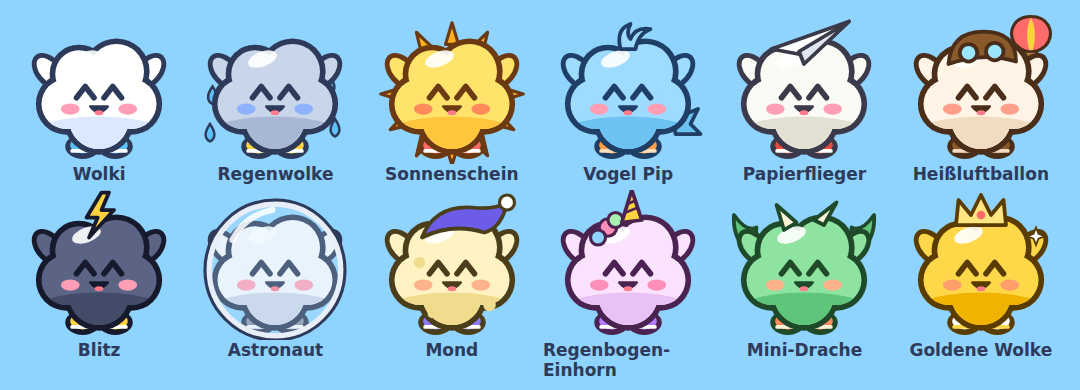
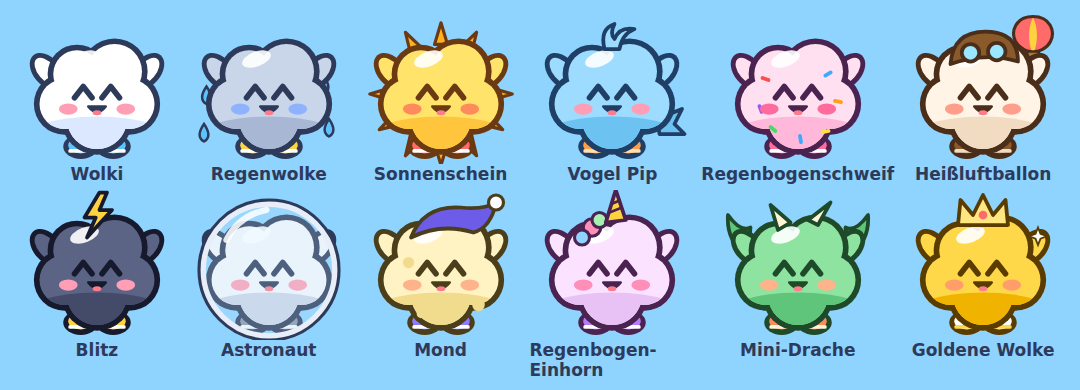
Sky Tower v0.5.0: Regenbogen- und Sternschnuppen-Schweif
- Papierflieger ersetzt durch Regenbogenschweif: rosa Wolki mit Streuseln
  und welligem 6-Farben-Regenbogen hinter sich (Nyan-Stil)
- Mond zieht einen Sternschnuppen-Schweif mit Funkeln hinter sich her
- Schweife im Spiel, im Menü (Wolki fliegt dann) und als Vorschau im Shop
- Alte Spielstände: Papierflieger wird automatisch zum Regenbogenschweif

Claude-Session: https://claude.ai/code/session_01WNEuBMU6fUHJXnr1bAaD1H

diff --git a/skytower/src/systems/trail.js b/skytower/src/systems/trail.js
@@ -1,0 +1,123 @@
+// Schweife hinter Wolki: Regenbogen (6 Farbbänder, leicht wellig) und
+// Sternschnuppe (leuchtende Spur mit funkelnden Sternchen).
+import { ZOOM } from '../view.js';
+
+export const RAINBOW = [0xff4d4d, 0xff9f1a, 0xffe23d, 0x4cd964, 0x3fa9ff, 0x8e5cff];
+const BAND = 7; // Breite eines Farbbands
+const LIFE = 0.42; // so lange (s) bleibt ein Punkt des Schweifs sichtbar
+
+export class Trail {
+  /**
+   * @param kind 'rainbow' | 'stars' | undefined (kein Schweif)
+   * @param drift Punkte wandern mit dieser Geschwindigkeit (px/s) nach links,
+   *              z. B. im Menü, damit der Schweif "fliegt", obwohl Wolki auf der Stelle hüpft
+   * @param flat  Farbbänder immer waagerecht übereinander (Nyan-Look im Menü)
+   */
+  constructor(scene, kind, { depth = 6, drift = 0, flat = false, life = LIFE } = {}) {
+    this.kind = kind;
+    this.life = life;
+    this.drift = drift;
+    this.flat = flat;
+    this.pts = [];
+    this.time = 0;
+    if (!kind) return;
+    this.g = scene.add.graphics().setDepth(depth);
+    if (kind === 'stars') {
+      this.sparks = scene.add.particles(0, 0, 'spark', {
+        speed: { min: 10, max: 70 },
+        lifespan: 750,
+        scale: { start: 0.95 / ZOOM, end: 0 },
+        alpha: { start: 1, end: 0 },
+        rotate: { min: 0, max: 360 },
+        tint: [0xffffff, 0xfff3a0, 0xffd23f],
+        emitting: false,
+      }).setDepth(depth);
+    }
+  }
+
+  /** Jedes Frame mit der aktuellen Position aufrufen. */
+  update(x, y, dt) {
+    if (!this.kind) return;
+    this.time += dt;
+    if (this.drift) for (const p of this.pts) p.x += this.drift * dt;
+    const last = this.pts[this.pts.length - 1];
+    if (!last || Math.abs(last.x - x) + Math.abs(last.y - y) > 2) this.pts.push({ x, y, t: this.time });
+    while (this.pts.length && this.time - this.pts[0].t > this.life) this.pts.shift();
+    if (this.kind === 'stars' && this.pts.length > 1 && Math.random() < 0.7) {
+      this.sparks.emitParticleAt(x + (Math.random() - 0.5) * 30, y + (Math.random() - 0.5) * 30, 1);
+    }
+    this.draw();
+  }
+
+  clear() {
+    this.pts = [];
+    this.g?.clear();
+  }
+
+  draw() {
+    const g = this.g;
+    g.clear();
+    const pts = this.pts;
+    if (pts.length < 2) return;
+    // Senkrechte zur Bewegungsrichtung je Punkt (für die Farbbänder)
+    let nx = 0;
+    let ny = 1;
+    const normals = pts.map((p, i) => {
+      if (this.flat) return [0, 1];
+      const a = pts[Math.max(0, i - 1)];
+      const b = pts[Math.min(pts.length - 1, i + 1)];
+      const dx = b.x - a.x;
+      const dy = b.y - a.y;
+      const len = Math.hypot(dx, dy);
+      if (len > 0.5) { nx = -dy / len; ny = dx / len; }
+      return [nx, ny];
+    });
+    // In drei Stücken zeichnen: je älter, desto durchsichtiger
+    const pieces = [[0, 0.3], [Math.floor(pts.length / 3), 0.6], [Math.floor((pts.length * 2) / 3), 1]];
+    pieces.forEach(([from, alpha], k) => {
+      const to = k < 2 ? pieces[k + 1][0] + 1 : pts.length;
+      if (to - from < 2) return;
+      if (this.kind === 'rainbow') {
+        RAINBOW.forEach((color, b) => {
+          const off = (b - 2.5) * BAND;
+          const line = [];
+          for (let i = from; i < to; i++) {
+            // Welle aus der Position statt aus dem Punkt-Index: gleich bei jeder Bildrate
+            const wave = Math.sin(this.time * 14 - (pts[i].x + pts[i].y) * 0.06) * 3;
+            line.push({ x: pts[i].x + normals[i][0] * (off + wave), y: pts[i].y + normals[i][1] * (off + wave) });
+          }
+          g.lineStyle(BAND + 1, color, alpha).strokePoints(line);
+        });
+      } else {
+        const line = pts.slice(from, to);
+        g.lineStyle(22, 0xfff3a0, alpha * 0.25).strokePoints(line);
+        g.lineStyle(9, 0xffffff, alpha * 0.7).strokePoints(line);
+      }
+    });
+  }
+
+  destroy() {
+    this.g?.destroy();
+    this.sparks?.destroy();
+  }
+}
+
+/** Kleine, feste Vorschau eines Schweifs (für den Shop), endet bei (x, y). */
+export function drawTrailPreview(scene, kind, x, y, len, depth = 6) {
+  const g = scene.add.graphics().setDepth(depth);
+  if (kind === 'rainbow') {
+    RAINBOW.forEach((color, b) => {
+      const off = (b - 2.5) * 5;
+      const line = [];
+      for (let i = 0; i <= 8; i++) line.push({ x: x - (len * i) / 8, y: y + off + (i % 2 ? 3 : -3) });
+      g.lineStyle(6, color, 1).strokePoints(line);
+    });
+  } else if (kind === 'stars') {
+    g.lineStyle(12, 0xfff3a0, 0.35).lineBetween(x - len, y + 4, x, y);
+    g.lineStyle(5, 0xffffff, 0.8).lineBetween(x - len, y + 4, x, y);
+    [[0.3, -10], [0.6, 12], [0.85, -4]].forEach(([f, dy]) => {
+      scene.add.image(x - len * f, y + dy, 'spark').setScale(0.9 / ZOOM).setDepth(depth).setTint(0xffe680);
+    });
+  }
+  return g;
+}

diff --git a/skytower/src/scenes/Menu.js b/skytower/src/scenes/Menu.js
@@ -6,6 +6,8 @@ import { save } from '../services/storage.js';
 import { unlockAudio, setSoundEnabled, sfx } from '../services/audio.js';
 import { music } from '../services/music.js';
 import { skinKey } from '../systems/skinTextures.js';
+import { Trail } from '../systems/trail.js';
+import { skinById } from '../systems/progress.js';
 
 export class MenuScene extends Phaser.Scene {
   constructor() {
@@ -29,19 +31,21 @@ export class MenuScene extends Phaser.Scene {
     this.tweens.add({ targets: title, angle: { from: -2, to: 2 }, duration: 1600, yoyo: true, repeat: -1, ease: 'Sine.inOut' });
     txt(this, W / 2, VIEW_H * 0.17 + 92, 'Hüpf in den Himmel!', 38, { color: '#fff6c2', strokeThickness: 7 });
 
-    // Wolki hüpft auf einer Wolke
+    // Wolki hüpft auf einer Wolke – oder fliegt mit ihrem Schweif (Nyan-Stil)
     const baseY = VIEW_H * 0.52;
-    const pg = this.add.graphics({ x: W / 2 - 110, y: baseY }).setDepth(3);
-    drawPlatform(pg, 'cloud', 220);
-    const wolki = this.add.image(W / 2, baseY, skinKey(s.selectedSkin, 'happy')).setOrigin(0.5, 0.96).setScale(1.5 / ZOOM).setDepth(4);
-    this.tweens.add({
-      targets: wolki,
-      y: baseY - 190,
-      duration: 480,
-      ease: 'Quad.out',
-      yoyo: true,
-      repeat: -1,
-    });
+    const trailKind = skinById(s.selectedSkin).trail;
+    this.trail = new Trail(this, trailKind, { depth: 3.5, drift: -360, flat: true, life: 0.6 });
+    const wolki = this.add.image(W / 2, baseY, skinKey(s.selectedSkin, 'happy'))
+      .setOrigin(0.5, 0.96).setScale(1.5 / ZOOM).setDepth(4);
+    this.wolki = wolki;
+    if (trailKind) {
+      wolki.setPosition(W / 2 + 60, baseY - 90);
+      this.tweens.add({ targets: wolki, y: baseY - 118, duration: 420, ease: 'Sine.inOut', yoyo: true, repeat: -1 });
+    } else {
+      const pg = this.add.graphics({ x: W / 2 - 110, y: baseY }).setDepth(3);
+      drawPlatform(pg, 'cloud', 220);
+      this.tweens.add({ targets: wolki, y: baseY - 190, duration: 480, ease: 'Quad.out', yoyo: true, repeat: -1 });
+    }
 
     const stats = [
       `Rekord: ${s.highscore.toLocaleString('de-DE')}`,
@@ -71,14 +75,16 @@ export class MenuScene extends Phaser.Scene {
       sfx.click();
     }, { w: 260, h: 78, size: 34, fill: 0xbfe6ff });
 
-    txt(this, W / 2, VIEW_H - 70, 'Prototyp v0.4 · Grafiken sind Platzhalter', 24, { strokeThickness: 5, color: '#e8f4ff' });
+    txt(this, W / 2, VIEW_H - 70, 'Prototyp v0.5 · Grafiken sind Platzhalter', 24, { strokeThickness: 5, color: '#e8f4ff' });
   }
 
   soundLabel() {
     return save.get().settings.sound ? 'Ton: an' : 'Ton: aus';
   }
 
-  update() {
+  update(_t, deltaMs) {
     this.sky.update(0, 0);
+    // Schweif "fliegt" nach links, während Wolki auf der Stelle schwebt
+    this.trail.update(this.wolki.x - 40, this.wolki.y - 64, Math.min(deltaMs / 1000, 0.1));
   }
 }

diff --git a/skytower/src/art.js b/skytower/src/art.js
@@ -27,10 +27,12 @@ export const SKINS = {
     back: (o) => `<path d="M96 84 L116 76 L110 88 L118 96 L98 96Z" fill="#6cc3f2" stroke="${o}" stroke-width="3" stroke-linejoin="round"/>`,
     front: (o) => `<path d="M54 28 Q50 12 62 8 Q58 16 62 20 Q66 10 78 12 Q68 16 66 28Z" fill="#9ddcff" stroke="${o}" stroke-width="3" stroke-linejoin="round"/>`,
   },
-  papier: {
-    body: '#fbfbf5', shade: '#e3e1d3', outline: '#3a3a4a', cheek: '#ff9eb5', shoe: '#e74c3c', sole: '#ffffff',
-    front: (o) => `<path d="M34 28 L96 6 L66 34 Z" fill="#ffffff" stroke="${o}" stroke-width="3" stroke-linejoin="round"/>` +
-      `<path d="M96 6 L56 30 L60 40 Z" fill="#dfe6f0" stroke="${o}" stroke-width="3" stroke-linejoin="round"/>`,
+  rainbow: {
+    // rosa "Törtchen" mit bunten Streuseln; der Regenbogen-Schweif kommt aus src/systems/trail.js
+    body: '#ffe0f0', shade: '#ffb8d9', outline: '#4a2350', cheek: '#ff6b9d', shoe: '#ff6b9d', sole: '#ffffff',
+    belly: () => [[34, 52, '#ff4d4d', 20], [84, 48, '#3fa9ff', -30], [40, 92, '#4cd964', 40], [82, 94, '#ffe23d', -10],
+      [30, 76, '#8e5cff', 70], [92, 70, '#ff9f1a', 10], [62, 100, '#3fa9ff', 80]]
+      .map(([x, y, c, r]) => `<rect x="${x - 4}" y="${y - 1.5}" width="8" height="3" rx="1.5" fill="${c}" transform="rotate(${r} ${x} ${y})"/>`).join(''),
   },
   ballon: {
     body: '#fff4e6', shade: '#f1dcc2', outline: '#4a2e1a', cheek: '#ff9e8a', shoe: '#8b5a2b', sole: '#f1dcc2',

diff --git a/skytower/src/systems/progress.js b/skytower/src/systems/progress.js
@@ -2,18 +2,19 @@
 //
 // Jeder Skin ist entweder von Anfang an da, für Münzen kaufbar, durch einen
 // Erfolg freischaltbar oder Premium (In-App-Kauf ab Phase 6). Die Goldene
-// Wolke gibt es auch über 1.000.000 gesammelte Punkte.
+// Wolke gibt es auch über 1.000.000 gesammelte Punkte. `trail` = Schweif hinter
+// Wolki (siehe src/systems/trail.js).
 
 export const SKIN_LIST = [
   { id: 'wolki', name: 'Wolki' },
   { id: 'regen', name: 'Regenwolke', price: 500 },
   { id: 'sonne', name: 'Sonnenschein', price: 1000 },
   { id: 'pip', name: 'Vogel Pip', price: 1500 },
-  { id: 'papier', name: 'Papierflieger', price: 2500 },
+  { id: 'rainbow', name: 'Regenbogenschweif', short: 'Regenbogen', price: 2500, trail: 'rainbow' },
   { id: 'ballon', name: 'Heißluftballon', goal: { type: 'bestFloor', value: 200 } },
   { id: 'blitz', name: 'Blitz', goal: { type: 'bestCombo', value: 50 } },
   { id: 'astro', name: 'Astronaut', goal: { type: 'bestFloor', value: 500 } },
-  { id: 'mond', name: 'Mond', goal: { type: 'runs', value: 100 } },
+  { id: 'mond', name: 'Mond', goal: { type: 'runs', value: 100 }, trail: 'stars' },
   { id: 'einhorn', name: 'Regenbogen-Einhorn', short: 'Einhorn', premium: true },
   { id: 'drache', name: 'Mini-Drache', premium: true },
   { id: 'gold', name: 'Goldene Wolke', premium: true, goal: { type: 'totalScore', value: 1_000_000 } },

diff --git a/skytower/src/scenes/Shop.js b/skytower/src/scenes/Shop.js
@@ -7,6 +7,7 @@ import { ensureSkin, skinKey } from '../systems/skinTextures.js';
 import {
   SKIN_LIST, GOAL_TEXT, skinById, skinState, buySkin, selectSkin, goalProgress,
 } from '../systems/progress.js';
+import { drawTrailPreview } from '../systems/trail.js';
 
 const INK = '#2d3a5a';
 const COLS = 3;
@@ -82,6 +83,9 @@ export class ShopScene extends Phaser.Scene {
       const img = this.add.image(x + cw / 2, y + (ch - 56) / 2 + 6, skinKey(skin.id, 'happy'))
         .setScale(imgScale / ZOOM).setDepth(6);
       if (locked) img.setAlpha(0.5);
+      if (skin.trail) {
+        drawTrailPreview(this, skin.trail, img.x - 30 * imgScale, img.y + 4, cw * 0.36, 5.5).setAlpha(locked ? 0.5 : 1);
+      }
 
       txt(this, x + cw / 2, y + ch - 48, skin.short ?? skin.name, 22, { color: INK, strokeThickness: 0 }).setDepth(7);
       this.statusLabel(x + cw / 2, y + ch - 20, skin, state);
@@ -122,6 +126,7 @@ export class ShopScene extends Phaser.Scene {
 
     this.add.image(140, y + PANEL_H / 2, skinKey(skin.id, 'happy')).setScale(1.7 / ZOOM).setDepth(6)
       .setAlpha(state === 'goal' || state === 'premium' ? 0.55 : 1);
+    if (skin.trail) drawTrailPreview(this, skin.trail, 100, y + PANEL_H / 2 + 6, 60, 5.5);
     const tx = 250;
     txt(this, tx, y + 50, skin.name, 38, { color: INK, strokeThickness: 0, ox: 0 }).setDepth(7);
 

diff --git a/skytower/src/scenes/Game.js b/skytower/src/scenes/Game.js
@@ -8,6 +8,8 @@ import { save } from '../services/storage.js';
 import { sfx, vibrate } from '../services/audio.js';
 import { music } from '../services/music.js';
 import { skinKey } from '../systems/skinTextures.js';
+import { Trail } from '../systems/trail.js';
+import { skinById } from '../systems/progress.js';
 
 const R = PHYSICS.playerRadius;
 const FH = TOWER.floorHeight;
@@ -66,6 +68,7 @@ export class GameScene extends Phaser.Scene {
     this.prepareZone(0);
 
     this.player = this.add.image(this.px, this.py, skinKey(this.skin, 'up')).setOrigin(0.5, 0.55).setScale(1 / ZOOM).setDepth(7);
+    this.trail = new Trail(this, skinById(this.skin).trail);
     this.sparks = this.add.particles(0, 0, 'spark', {
       speed: { min: 180, max: 520 },
       lifespan: 650,
@@ -259,6 +262,7 @@ export class GameScene extends Phaser.Scene {
     this.cam.scrollY = this.scrollY;
     this.sky.update(this.scrollY, Math.max(0, -(this.scrollY + VIEW_H / 2) / FH));
     this.renderPlayer(frame);
+    this.trail.update(this.px, this.py - 4, frame);
     this.renderHud();
   }
 

diff --git a/skytower/src/services/storage.js b/skytower/src/services/storage.js
@@ -25,7 +25,11 @@ function load() {
     if (raw) {
       const parsed = JSON.parse(raw);
       const base = structuredClone(DEFAULTS); // eigene Kopie, z. B. von ownedSkins
-      return { ...base, ...parsed, settings: { ...base.settings, ...parsed.settings } };
+      const d = { ...base, ...parsed, settings: { ...base.settings, ...parsed.settings } };
+      // v0.4 -> v0.5: Papierflieger wurde durch Regenbogenschweif ersetzt
+      d.ownedSkins = d.ownedSkins.map((id) => (id === 'papier' ? 'rainbow' : id));
+      if (d.selectedSkin === 'papier') d.selectedSkin = 'rainbow';
+      return d;
     }
   } catch { /* privater Modus o. Ä. */ }
   return structuredClone(DEFAULTS);

diff --git a/skytower/README.md b/skytower/README.md
@@ -3,7 +3,7 @@
 Endless-Jumper fürs Handy, angelehnt an den PC-Klassiker *Icy Tower*.
 Konzept und Fahrplan: [KONZEPT.md](KONZEPT.md).
 
-## Stand: Prototyp v0.4 (Phasen 1, 3 und 5)
+## Stand: Prototyp v0.5 (Phasen 1, 3 und 5)
 
 - Automatisches Springen, Sprunghöhe hängt vom Anlauf ab
 - Steuerung: linke/rechte Bildschirmhälfte halten (am PC: Pfeiltasten oder A/D, P = Pause)
@@ -18,6 +18,8 @@ Konzept und Fahrplan: [KONZEPT.md](KONZEPT.md).
   4 über Erfolge (Etage 200/500, 50er-Combo, 100 Runden), 3 Premium (In-App-Käufe folgen
   in Phase 6; die Goldene Wolke gibt es alternativ für 1.000.000 gesammelte Punkte).
   Logik in `src/systems/progress.js`, Grafiken in `src/art.js` (`SKINS`)
+- Schweife (`src/systems/trail.js`): Regenbogenschweif (Nyan-Stil) und Sternschnuppe (Mond),
+  im Spiel, im Menü (Wolki fliegt dann statt zu hüpfen) und als Vorschau im Shop
 - Münzen, lokaler Highscore, Tutorial-Hinweise, Pause, Game-Over-Bildschirm
 - Hintergrundmusik (live erzeugt, `src/services/music.js`): 32-Takt-Song mit Strophe,
   Überleitung und Refrain; wird mit jeder Kamerastufe schneller und voller und wechselt

diff --git a/skytower/KONZEPT.md b/skytower/KONZEPT.md
@@ -137,11 +137,11 @@ Alle 50 Etagen gibt es eine breite **Meilenstein-Plattform** mit Etagenschild.
 | Regenwolke | 500 Münzen |
 | Sonnenschein | 1.000 Münzen |
 | Vogel Pip | 1.500 Münzen |
-| Papierflieger | 2.500 Münzen |
+| Regenbogenschweif (mit Regenbogen-Schweif) | 2.500 Münzen |
 | Heißluftballon | Erfolg: Etage 200 erreichen |
 | Blitz | Erfolg: 50er-Combo |
 | Astronaut | Erfolg: Etage 500 erreichen |
-| Mond | Erfolg: 100 Runden gespielt |
+| Mond (mit Sternschnuppen-Schweif) | Erfolg: 100 Runden gespielt |
 | Regenbogen-Einhorn | Premium (In-App-Kauf) |
 | Mini-Drache | Premium (In-App-Kauf) |
 | Goldene Wolke | Premium oder Erfolg: 1.000.000 Punkte |
